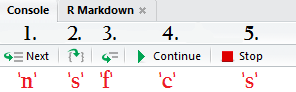
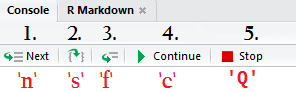
some fixes for the lab on writing functions

Changed region(s): [[0.7601, 0.7609, 0.8818, 0.9565]]

diff --git a/labs/functions.html b/labs/functions.html
@@ -10,15 +10,10 @@
 
 
 
-  <meta name="date" content="2016-09-18" />
+  <meta name="date" content="2017-04-03" />
 
   <meta name="viewport" content="width=device-width, initial-scale=1">
   <meta name="apple-mobile-web-app-capable" content="yes">
-
-  <link rel="stylesheet" media="all" href="lib/ioslides-13.5.1/fonts/fonts.css">
-
-  <link rel="stylesheet" media="all" href="lib/ioslides-13.5.1/theme/css/default.css">
-  <link rel="stylesheet" media="only screen and (max-device-width: 480px)" href="lib/ioslides-13.5.1/theme/css/phone.css">
 
   <base target="_blank">
 
@@ -46,6 +41,17 @@
             ]
     };
   </script>
+
+  <link href="lib/ioslides-13.5.1/fonts/fonts.css" rel="stylesheet" />
+  <link href="lib/ioslides-13.5.1/theme/css/default.css" rel="stylesheet" />
+  <link href="lib/ioslides-13.5.1/theme/css/phone.css" rel="stylesheet" />
+  <script src="lib/ioslides-13.5.1/js/modernizr.custom.45394.js"></script>
+  <script src="lib/ioslides-13.5.1/js/prettify/prettify.js"></script>
+  <script src="lib/ioslides-13.5.1/js/prettify/lang-r.js"></script>
+  <script src="lib/ioslides-13.5.1/js/prettify/lang-yaml.js"></script>
+  <script src="lib/ioslides-13.5.1/js/hammer.js"></script>
+  <script src="lib/ioslides-13.5.1/js/slide-controller.js"></script>
+  <script src="lib/ioslides-13.5.1/js/slide-deck.js"></script>
 
   <style type="text/css">
 
@@ -75,7 +81,7 @@
 
   </style>
 
-  <link rel="stylesheet" href="../theme/css/custom.css" type="text/css" />
+  <link rel="stylesheet" href="..\theme\css\custom.css" type="text/css" />
 
 </head>
 
@@ -89,13 +95,13 @@
       <h1 data-config-title><!-- populated from slide_config.json --></h1>
       <h2 data-config-subtitle><!-- populated from slide_config.json --></h2>
       <p data-config-presenter><!-- populated from slide_config.json --></p>
-            <p style="margin-top: 6px; margin-left: -2px;">2016-09-18</p>
+            <p style="margin-top: 6px; margin-left: -2px;">2017-04-03</p>
           </hgroup>
   </slide>
 
 <slide class=''><hgroup><h2>Why write a new function?</h2></hgroup><article  id="why-write-a-new-function">
 
-<p>Consider a common situation: You as a programmer need to perform a set of identical or extremely similar operations on several different pieces of information. What do you do?</p>
+<p>Consider a common situation: You need to perform a set of identical or extremely similar operations on several different pieces of information. What do you do?</p>
 
 <p>The solution with the least upfront cost is to write the code necessary for your task once and copy and paste it into the places where you&#39;ll need it, tweaking little things each time for the specific information you&#39;re operating on.</p>
 
@@ -113,7 +119,7 @@
 
 <p>You can create a new function object in R with the <code>function</code> keyword and the following syntax:</p>
 
-<pre class = 'prettyprint lang-r'>&gt; f &lt;- function(arguments) { body }</pre>
+<pre class = 'prettyprint lang-r'>f &lt;- function(arguments) { body }</pre>
 
 <p>This expression is called a <em>function declaration</em> or a <em>function definition</em>.</p>
 
@@ -127,10 +133,10 @@
 
 <p>The function definition below creates a new function object <code>f</code>, which takes two arguments, <code>arg1</code> and <code>arg2</code>, and prints out a report of their values to the console.</p>
 
-<pre class = 'prettyprint lang-r'>&gt; f &lt;- function(arg1, arg2) { 
-... +    print(paste(&quot;arg1 is&quot;, arg1, &quot;and arg2 is&quot;, arg2))
-... +  }
-&gt; f(&quot;eleventeen&quot;, -Inf)</pre>
+<pre class = 'prettyprint lang-r'>f &lt;- function(arg1, arg2) { 
+  print(paste(&quot;arg1 is&quot;, arg1, &quot;and arg2 is&quot;, arg2))
+}
+f(&quot;eleventeen&quot;, -Inf)</pre>
 
 <pre >## [1] &quot;arg1 is eleventeen and arg2 is -Inf&quot;</pre>
 
@@ -140,35 +146,35 @@
 
 <p>If you assign a default value, the argument is optional and may be omitted in the function call.</p>
 
-<pre class = 'prettyprint lang-r'>&gt; f &lt;- function(arg1, arg2=&quot;not supplied!&quot;) { 
-... +    print(paste(&quot;arg1 is&quot;, arg1, &quot;and arg2 is&quot;, arg2))
-... +  }
-&gt; f(&quot;squidily diddly&quot;) # only 1 argument given!</pre>
+<pre class = 'prettyprint lang-r'>f &lt;- function(arg1, arg2=&quot;not supplied!&quot;) { 
+  print(paste(&quot;arg1 is&quot;, arg1, &quot;and arg2 is&quot;, arg2))
+}
+f(&quot;squidily diddly&quot;) # only 1 argument given!</pre>
 
 <pre >## [1] &quot;arg1 is squidily diddly and arg2 is not supplied!&quot;</pre>
 
 </article></slide><slide class=''><hgroup><h2>Required Arguments</h2></hgroup><article  id="required-arguments">
 
-Omitting arguments <em>without</em> a default value must always be specified on the function call. Omitting them will always result in a fatal error.
+<p>Arguments <em>without</em> a default value must always be specified on the function call. Omitting them will always result in a fatal error.</p>
 
-<div class="errormsg">
-<pre class = 'prettyprint lang-r'>&gt; f(arg2=pi) # I always forget pi is a built in constant!!</pre>
+<div style="margin-top: 10px;" class="errormsg">
+<pre class = 'prettyprint lang-r'>f(arg2=pi) # I always forget pi is a built in constant!!</pre>
 
 <pre >## Error in paste(&quot;arg1 is&quot;, arg1, &quot;and arg2 is&quot;, arg2): argument &quot;arg1&quot; is missing, with no default</pre>
 
-<pre class = 'prettyprint lang-r'>&gt; # Sorry for the formatting, errors don&#39;t line wrap</pre></div>
+<pre class = 'prettyprint lang-r'># Sorry for the formatting, errors don&#39;t line wrap</pre></div>
 
 </article></slide><slide class=''><hgroup><h2>A reminder: positional vs. named arguments</h2></hgroup><article  id="a-reminder-positional-vs.-named-arguments">
 
-<p>when you call a function without using argument name, the values you supply are matched with the functions arguments <strong>by position</strong> (i.e., first supplied value goes with argument 1, second supplied value goes with argument 2, etc.)</p>
+<p>When you call a function without using argument name, the values you supply are matched with the functions arguments <strong>by position</strong> (i.e., first supplied value goes with argument 1, second supplied value goes with argument 2, etc.)</p>
 
-<pre class = 'prettyprint lang-r'>&gt; f(&quot;sir nose d&#39;voidoffunk&quot;, &quot;starchild&quot;)</pre>
+<pre class = 'prettyprint lang-r'>f(&quot;sir nose d&#39;voidoffunk&quot;, &quot;starchild&quot;)</pre>
 
 <pre >## [1] &quot;arg1 is sir nose d&#39;voidoffunk and arg2 is starchild&quot;</pre>
 
 <p>But, when you pair the values with argument names, they may be specified in any order.</p>
 
-<pre class = 'prettyprint lang-r'>&gt; f(arg2 = &quot;sir nose d&#39;voidoffunk&quot;, arg1 = &quot;starchild&quot;)</pre>
+<pre class = 'prettyprint lang-r'>f(arg2 = &quot;sir nose d&#39;voidoffunk&quot;, arg1 = &quot;starchild&quot;)</pre>
 
 <pre >## [1] &quot;arg1 is starchild and arg2 is sir nose d&#39;voidoffunk&quot;</pre>
 
@@ -186,11 +192,11 @@ Omitting arguments <em>without</em> a default value must always be specified on 
 
 <p>Lets try assigning the output from our function to a variable:</p>
 
-<pre class = 'prettyprint lang-r'>&gt; report &lt;- f(-1.05)</pre>
+<pre class = 'prettyprint lang-r'>report &lt;- f(-1.05)</pre>
 
 <pre >## [1] &quot;arg1 is -1.05 and arg2 is not supplied!&quot;</pre>
 
-<pre class = 'prettyprint lang-r'>&gt; report</pre>
+<pre class = 'prettyprint lang-r'>report</pre>
 
 <pre >## [1] &quot;arg1 is -1.05 and arg2 is not supplied!&quot;</pre>
 
@@ -210,11 +216,11 @@ Omitting arguments <em>without</em> a default value must always be specified on 
 
 <p>For these reasons, R has a reserved keyword <code>return</code> which halts a functions execution and returns the value specified to <code>return</code>.</p>
 
-<pre class = 'prettyprint lang-r'>&gt; f &lt;- function(arg1, arg2=&quot;not supplied!&quot;) { 
-... +    x &lt;- paste(&quot;arg1 is&quot;, arg1, &quot;and arg2 is&quot;, arg2)
-... +    return(x)  # Same behavior, but more explicit
-... +  }
-&gt; f(&quot;autumn leaves&quot;)</pre>
+<pre class = 'prettyprint lang-r'>f &lt;- function(arg1, arg2=&quot;not supplied!&quot;) { 
+  x &lt;- paste(&quot;arg1 is&quot;, arg1, &quot;and arg2 is&quot;, arg2)
+  return(x)  # Same behavior, but more explicit
+}
+f(&quot;autumn leaves&quot;)</pre>
 
 <pre >## [1] &quot;arg1 is autumn leaves and arg2 is not supplied!&quot;</pre>
 
@@ -232,15 +238,17 @@ Omitting arguments <em>without</em> a default value must always be specified on 
 
 <p>For example, this function returns a list of summary statistics for a numeric vector, which can then be accessed by name from the list.</p>
 
-<pre class = 'prettyprint lang-r'>&gt; summaryStats &lt;- function(x) {
-... +    x &lt;- list(mean = mean(x), stdDev = sd(x), range = range(x),
-... +              sem = sd(x)/sqrt(length(x)))
-... +    return(x)
-... +  }
-&gt; statList &lt;- summaryStats(runif(25,0,100)) #25 random values from 0 to 100
-&gt; statList$sem</pre>
+<pre class = 'prettyprint lang-r'>summaryStats &lt;- function(x) {
+  x &lt;- list(mean = mean(x),
+            stdDev = sd(x),
+            range = range(x),
+            sem = sd(x)/sqrt(length(x)))
+  return(x)
+}
+statList &lt;- summaryStats(runif(25,0,100)) #25 random values from 0 to 100
+statList$sem</pre>
 
-<pre >## [1] 5.795566</pre>
+<pre >## [1] 5.985896</pre>
 
 </article></slide><slide class=''><hgroup><h2>Using your functions</h2></hgroup><article  id="using-your-functions">
 
@@ -254,9 +262,9 @@ Omitting arguments <em>without</em> a default value must always be specified on 
 
 </article></slide><slide class=''><hgroup><h2>Sourcing your functions</h2></hgroup><article  id="sourcing-your-functions">
 
-<p>A better solution is to have one .R file where you define a single function (or several of related functions), and use the <code>source</code> keyword to execute the file and define the function whenever you want use it.</p>
+<p>A better solution is to have one (or more) .R file where you define a single function (or several of related functions), and use the <code>source</code> keyword to execute the file and define the function whenever you want use it.</p>
 
-<pre class = 'prettyprint lang-r'>&gt; source(&#39;/path/to/file/with/function/definitions.R&#39;)</pre>
+<pre class = 'prettyprint lang-r'>source(&#39;/path/to/file/with/function/definitions.R&#39;)</pre>
 
 <p><code>source</code> executes any R expressions found in the specified file in the environment where <code>source</code> was called. For example, executing the expression <code>x &lt;- 10</code> in the console and writing <code>x &lt;- 10</code> in a separate file and sourcing that file have the same effect.</p>
 
@@ -268,7 +276,7 @@ Omitting arguments <em>without</em> a default value must always be specified on 
 
 <p>Of course, <em>you</em> know that, because you wrote the function, and <em>you</em> would never dream of passing a character vector or list to <code>summaryStats</code>.</p>
 
-<p>But can you guarantee that you group member or lab member knows that? And can you absolutely guarantee that <code>summaryStats</code> won&#39;t be unintentionally passed some other type of data when called from a more complex or non-interactive program?</p>
+<p>But can you guarantee that your group member or lab member knows that? And can you absolutely guarantee that <code>summaryStats</code> won&#39;t be unintentionally passed some other type of data when called from a more complex or non-interactive program?</p>
 
 </article></slide><slide class=''><hgroup><h2>User-Defined Errors</h2></hgroup><article  id="user-defined-errors-1">
 
@@ -282,15 +290,15 @@ Omitting arguments <em>without</em> a default value must always be specified on 
 
 <p>We can use it together with an <code>if</code> statements to enforce our requirement that the input to <code>summaryStats</code> be numerals of some kind.</p>
 
-<pre class = 'prettyprint lang-r'>&gt; summaryStats &lt;- function(x) {
-... +    if (is.numeric(x) || is.logical(x)) {
-... +      x &lt;- list(mean = mean(x), stdDev = sd(x), range = range(x),
-... +                sem = sd(x)/sqrt(length(x)))
-... +      return(x)
-... +    } else {
-... +      stop(&quot;Input to summaryStats must be a numeric or logical vector!&quot;)
-... +    }
-... +  }</pre>
+<pre class = 'prettyprint lang-r'>summaryStats &lt;- function(x) {
+  if (is.numeric(x) || is.logical(x)) {
+    x &lt;- list(mean = mean(x), stdDev = sd(x), range = range(x),
+              sem = sd(x)/sqrt(length(x)))
+    return(x)
+  } else {
+    stop(&quot;Input to summaryStats must be a numeric or logical vector!&quot;)
+  }
+}</pre>
 
 </article></slide><slide class=''><hgroup><h2>User-Defined Errors</h2></hgroup><article  id="user-defined-errors-3">
 
@@ -298,17 +306,19 @@ Omitting arguments <em>without</em> a default value must always be specified on 
 
 <p>First, a numeric vector which should be fine.</p>
 
-<pre class = 'prettyprint lang-r'>&gt; statList &lt;- summaryStats(runif(25,0,100))
-&gt; statList$mean # good!</pre>
+<pre class = 'prettyprint lang-r'>x &lt;- runif(25,0,100)
+statList &lt;- summaryStats(x)
+statList$mean # good!</pre>
 
-<pre >## [1] 56.62911</pre>
+<pre >## [1] 44.48184</pre>
 
 Now, a character vector which should fail.
 
 <div class="errormsg">
-<pre class = 'prettyprint lang-r'>&gt; statList &lt;- summaryStats(as.character(runif(25,0,100)))</pre>
+<pre class = 'prettyprint lang-r'>x &lt;- as.character(runif(25,0,100))
+statList &lt;- summaryStats(x)</pre>
 
-<pre >## Error in summaryStats(as.character(runif(25, 0, 100))): Input to summaryStats must be a numeric or logical vector!</pre></div>
+<pre >## Error in summaryStats(x): Input to summaryStats must be a numeric or logical vector!</pre></div>
 
 <p>Hooray, an error! Whenever you write a test for your input, always test it with bad input to be sure it catches it.</p>
 
@@ -324,7 +334,7 @@ Now, a character vector which should fail.
 
 <p>When you want to interactively debug a function, provide the function object as an argument to the <code>debug</code> function.</p>
 
-<pre class = 'prettyprint lang-r'>&gt; debug(summaryStats)</pre>
+<pre class = 'prettyprint lang-r'>debug(summaryStats)</pre>
 
 <p>This appears to have no effect, but it tells R that whenever <code>summaryStats</code> is called, to pause before the first line of the function body is executed, and open an interactive console inside the function&#39;s environment.</p>
 
@@ -337,22 +347,22 @@ Now, a character vector which should fail.
 <p><img src='../images/debugControls.png' title=''/> The navigation controls &amp; corresponding keyboard shortcuts are shown above, and explained below:</p>
 
 <ol>
-<li>Executes the very next line of code in the function</li>
-<li>Executes the next function call and changes the current environment to that function
+<li>&quot;Next&quot;: Executes the very next line of code in the function</li>
+<li>&quot;Step: Executes the next function call and changes the current environment to that function
 
 <ul>
 <li>Allows you to follow the entire code path, not just code in your function</li>
 </ul></li>
-<li>Executes all code remaining in the function, or all remaining iterations of a loop</li>
-<li>Continue execution of all code normally (exits debugging mode)</li>
-<li>Exit debugging mode and halt all execution</li>
+<li>&quot;Finish&quot;: Executes all code remaining in the function, or all remaining iterations of a loop</li>
+<li>&quot;Continue&quot;: Continue execution of <em>all</em> code normally (exits debugging mode)</li>
+<li>&quot;Quit: Exit debugging mode and halt all execution</li>
 </ol>
 
 </article></slide><slide class=''><hgroup><h2>Interactive Debugging</h2></hgroup><article  id="interactive-debugging-1">
 
 <p>When you decide that you want <code>summaryStats</code> to execute normally and no longer run under debugging mode, use the <code>undebug</code> function:</p>
 
-<pre class = 'prettyprint lang-r'>&gt; undebug(summaryStats)</pre>
+<pre class = 'prettyprint lang-r'>undebug(summaryStats)</pre>
 
 <p>Any subsequent calls to <code>summaryStats</code> will proceed as normal.</p>
 
@@ -401,13 +411,13 @@ Now, a character vector which should fail.
 
 <p>Here is a more a concrete example of what your function should behave like. When you think you are done, test your function to make sure your function can reproduce the results.</p>
 
-<pre class = 'prettyprint lang-r'>&gt; v &lt;- c(2,4,10,33,2,8,19,3, 20, 3, 4, 45) # vector to search
-&gt; x &lt;- find(v, 2) # search for 2, reporting all positions where it is found
-&gt; all(v[x] == 2) # Indexing the vector with the results should produce all 2&#39;s</pre>
+<pre class = 'prettyprint lang-r'>v &lt;- c(2,4,10,33,2,8,19,3, 20, 3, 4, 45) # vector to search
+x &lt;- find(v, 2) # search for 2, reporting all positions where it is found
+all(v[x] == 2) # Indexing the vector with the results should produce all 2&#39;s</pre>
 
 <pre >## [1] TRUE</pre>
 
-<pre class = 'prettyprint lang-r'>&gt; find(v, 2, 2) # Should produce 5 since the 5th element is the second 2</pre>
+<pre class = 'prettyprint lang-r'>find(v, 2, 2) # Should produce 5 since the 5th element is the second 2</pre>
 
 <pre >## [1] 5</pre></article></slide>
 
@@ -415,14 +425,6 @@ Now, a character vector which should fail.
   <slide class="backdrop"></slide>
 
 </slides>
-
-<script src="lib/ioslides-13.5.1/js/modernizr.custom.45394.js"></script>
-<script src="lib/ioslides-13.5.1/js/prettify/prettify.js"></script>
-<script src="lib/ioslides-13.5.1/js/prettify/lang-r.js"></script>
-<script src="lib/ioslides-13.5.1/js/prettify/lang-yaml.js"></script>
-<script src="lib/ioslides-13.5.1/js/hammer.js"></script>
-<script src="lib/ioslides-13.5.1/js/slide-controller.js"></script>
-<script src="lib/ioslides-13.5.1/js/slide-deck.js"></script>
 
 
 <!-- map slide visiblity events into shiny -->
